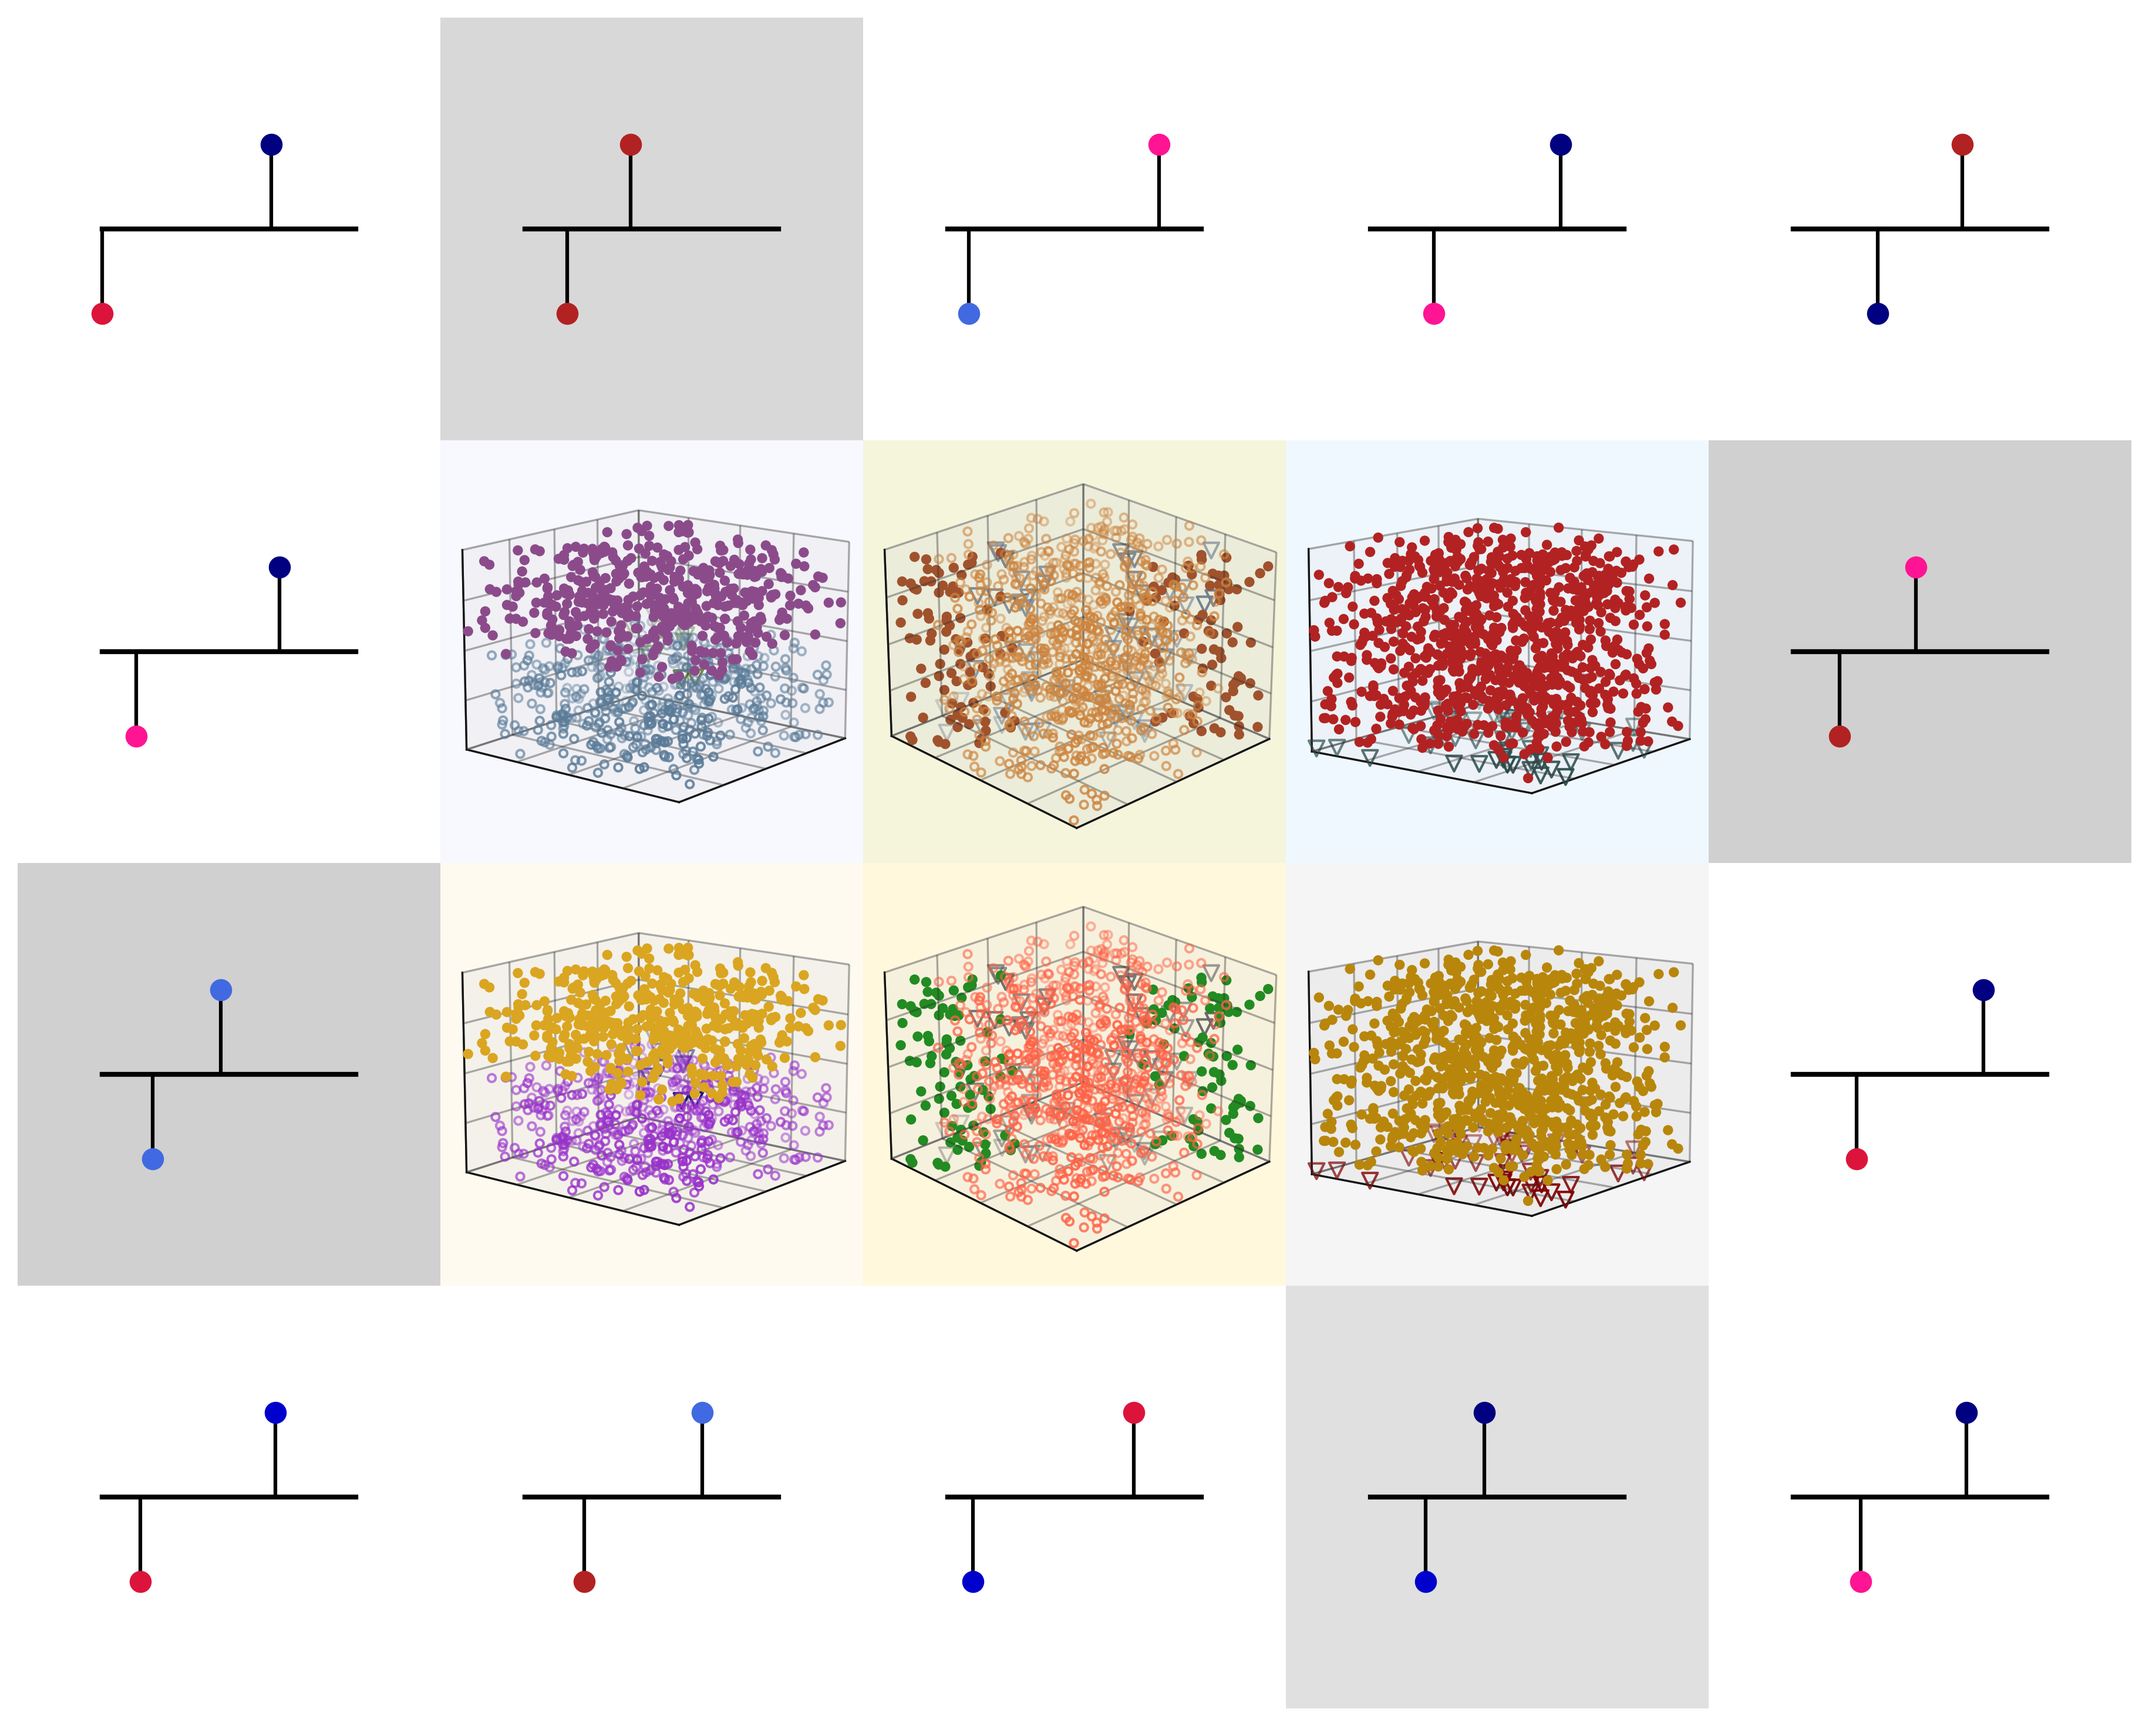
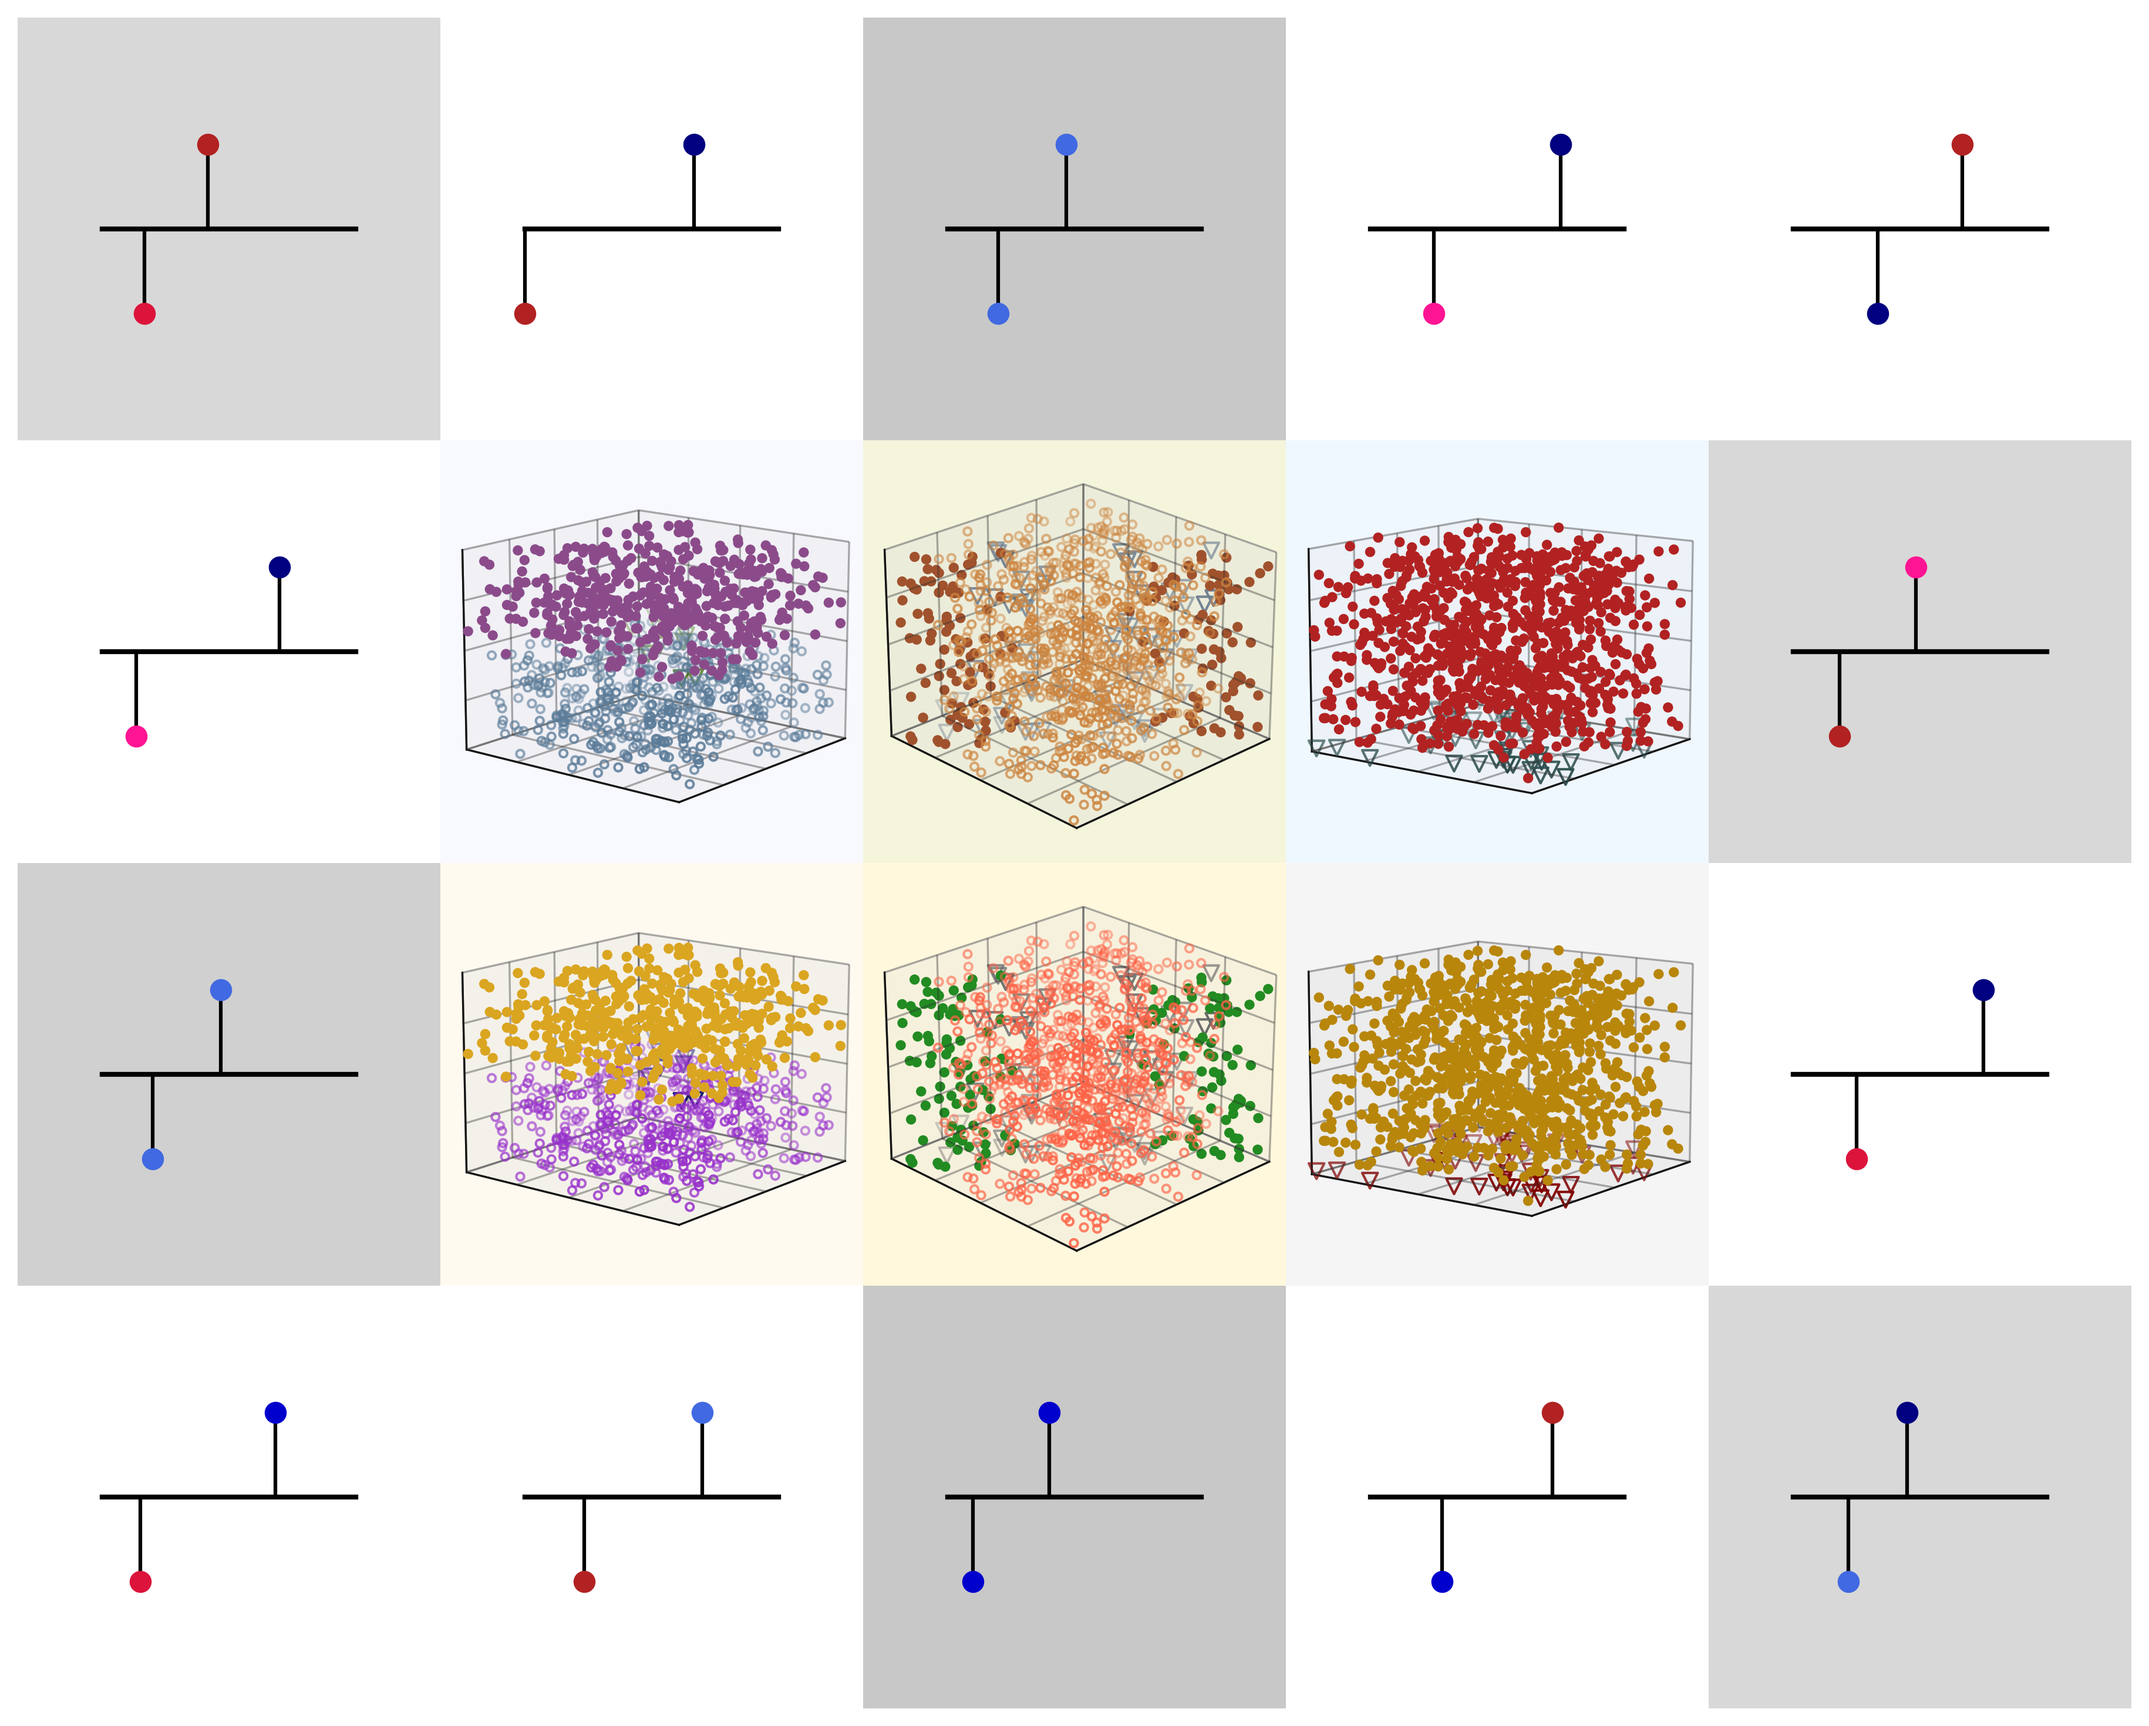
improvements

Changed region(s): [[0.0, 0.0, 0.623, 0.2786], [0.3738, 0.7429, 0.9967, 0.9905]]

diff --git a/prettyXOR.py b/prettyXOR.py
@@ -344,25 +344,25 @@ def create_plots():
             else:
                 return base_color
         
-        # Define specific configurations for gray panels at r1c2, r2c5, r3c1, r4c4
+        # Define specific configurations for gray panels at r1c1, r1c3, r2c5, r3c1, r4c3, r4c5
         # Map to actual dendrite positions: [1,2,3,4,5, 6,10, 11,15, 16,17,18,19,20]
-        # Position mapping: r1c2=2, r2c5=10, r3c1=11, r4c4=19
+        # Position mapping: r1c1=1, r1c3=3, r2c5=10, r3c1=11, r4c3=18, r4c5=20
         specific_configs = [
-            # Position 1 (r1c1): WHITE
-            {'pos1': 2.0, 'pos2': 6.0, 'syn1_color': 'red', 'syn2_color': 'blue'},
-            # Position 2 (r1c2): GRAY
+            # Position 1 (r1c1): GRAY
             {'pos1': 3.0, 'pos2': 4.5, 'syn1_color': 'red', 'syn2_color': 'red'},
-            # Position 3 (r1c3): WHITE  
-            {'pos1': 2.5, 'pos2': 7.0, 'syn1_color': 'blue', 'syn2_color': 'red'},
+            # Position 2 (r1c2): WHITE
+            {'pos1': 2.0, 'pos2': 6.0, 'syn1_color': 'red', 'syn2_color': 'blue'},
+            # Position 3 (r1c3): GRAY
+            {'pos1': 3.2, 'pos2': 4.8, 'syn1_color': 'blue', 'syn2_color': 'blue'},
             # Position 4 (r1c4): WHITE
             {'pos1': 3.5, 'pos2': 6.5, 'syn1_color': 'red', 'syn2_color': 'blue'},
             # Position 5 (r1c5): WHITE
             {'pos1': 4.0, 'pos2': 6.0, 'syn1_color': 'blue', 'syn2_color': 'red'},
             # Position 6 (r2c1): WHITE
             {'pos1': 2.8, 'pos2': 6.2, 'syn1_color': 'red', 'syn2_color': 'blue'},
-            # Position 10 (r2c5): GRAY
+            # Position 10 (r2c5): GRAY (keep original)
             {'pos1': 3.1, 'pos2': 4.9, 'syn1_color': 'red', 'syn2_color': 'red'},
-            # Position 11 (r3c1): GRAY
+            # Position 11 (r3c1): GRAY (keep original)
             {'pos1': 3.2, 'pos2': 4.8, 'syn1_color': 'blue', 'syn2_color': 'blue'},
             # Position 15 (r3c5): WHITE
             {'pos1': 3.5, 'pos2': 6.5, 'syn1_color': 'red', 'syn2_color': 'blue'},
@@ -370,12 +370,12 @@ def create_plots():
             {'pos1': 2.9, 'pos2': 6.1, 'syn1_color': 'red', 'syn2_color': 'blue'},
             # Position 17 (r4c2): WHITE
             {'pos1': 3.4, 'pos2': 6.2, 'syn1_color': 'red', 'syn2_color': 'blue'},
-            # Position 18 (r4c3): WHITE
-            {'pos1': 2.6, 'pos2': 6.4, 'syn1_color': 'blue', 'syn2_color': 'red'},
-            # Position 19 (r4c4): GRAY
+            # Position 18 (r4c3): GRAY
+            {'pos1': 2.6, 'pos2': 4.4, 'syn1_color': 'blue', 'syn2_color': 'blue'},
+            # Position 19 (r4c4): WHITE
+            {'pos1': 3.7, 'pos2': 6.3, 'syn1_color': 'blue', 'syn2_color': 'red'},
+            # Position 20 (r4c5): GRAY
             {'pos1': 3.3, 'pos2': 4.7, 'syn1_color': 'blue', 'syn2_color': 'blue'},
-            # Position 20 (r4c5): WHITE
-            {'pos1': 3.6, 'pos2': 6.1, 'syn1_color': 'red', 'syn2_color': 'blue'},
         ]
         
         for i in range(20):  # 20 dendrite examples total
